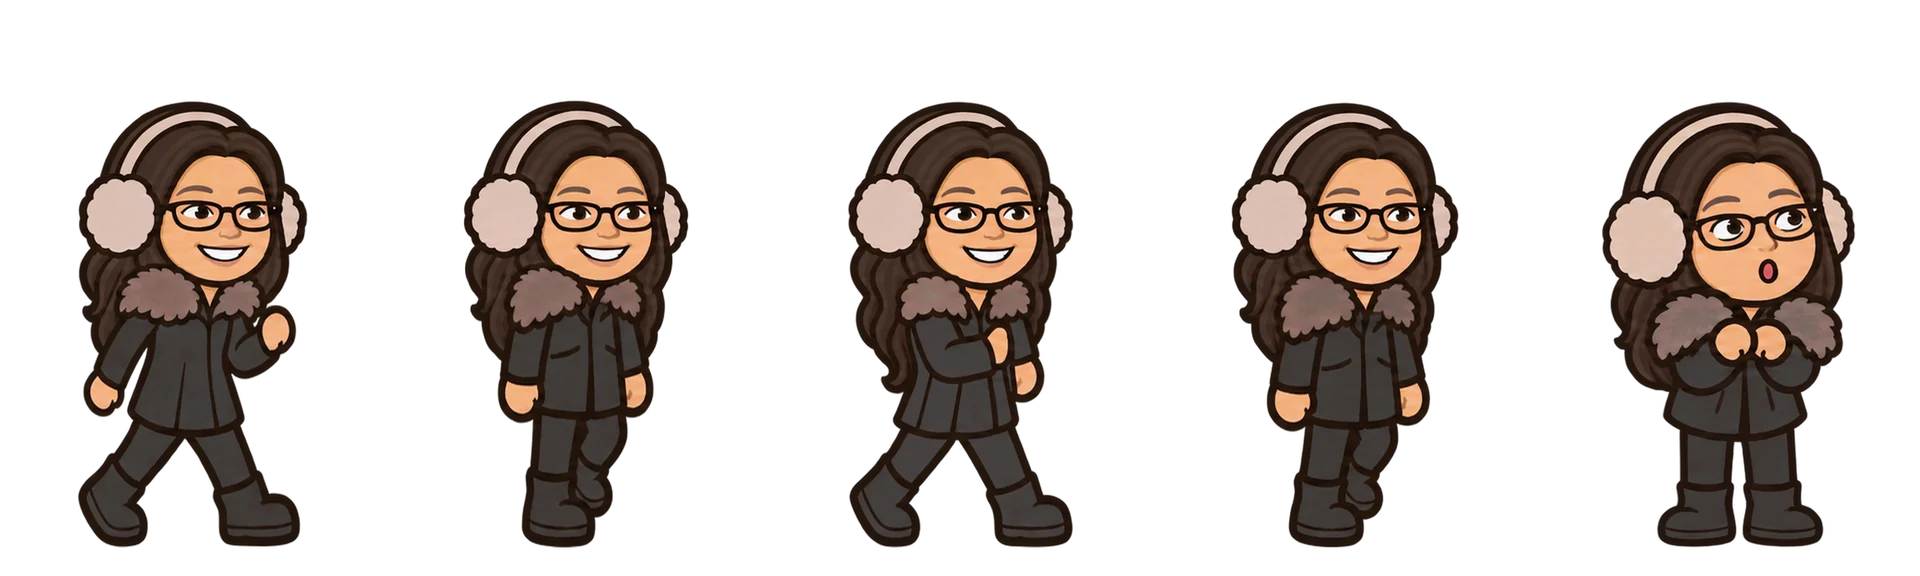
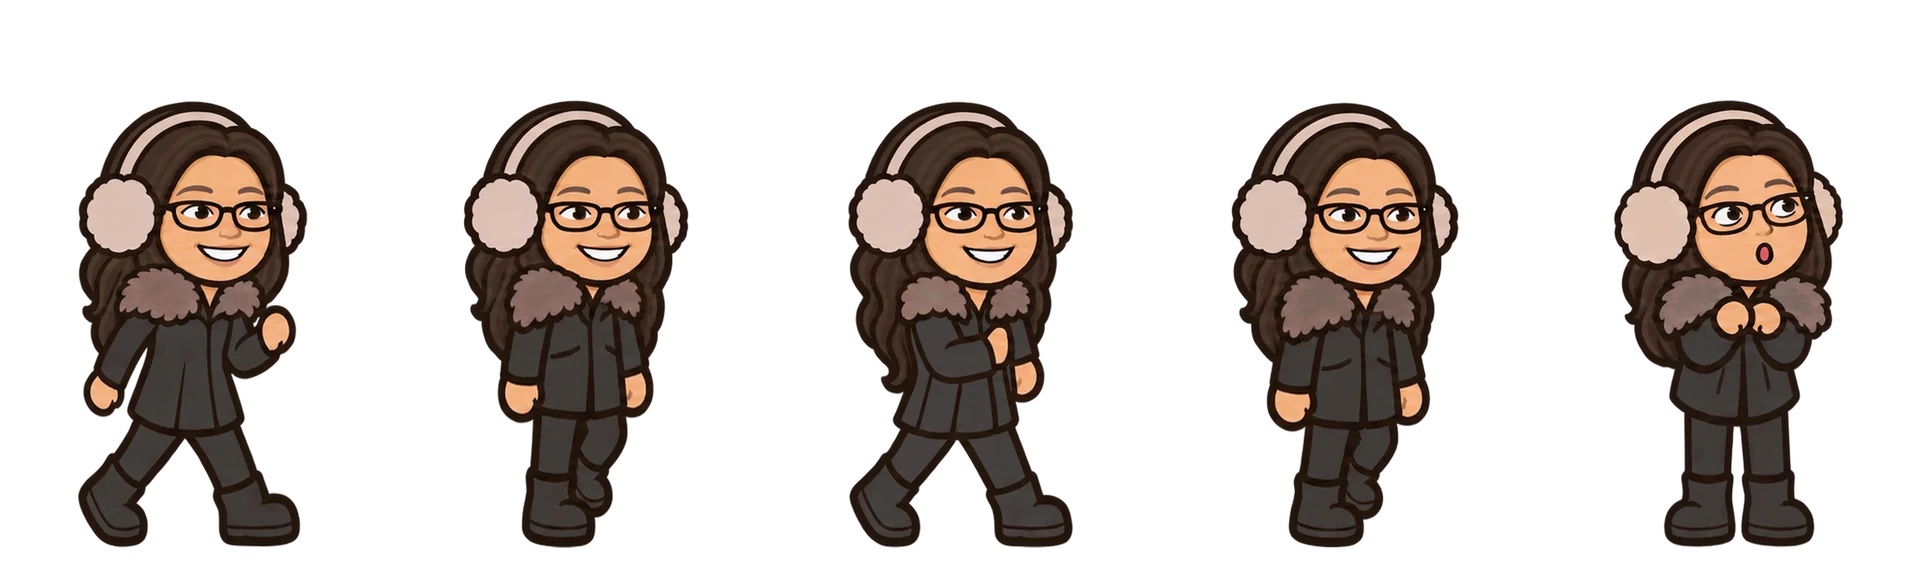
광장 주인장 걷기: mandeuk v5, family-02 v15 (팔이 걸음마다 바뀜)
Claude-Session: https://claude.ai/code/session_013gkWdjqDwwMfs8SrUNHEXQ

Changed region(s): [[0.8125, 0.1562, 0.9688, 0.9375]]

diff --git a/tools/make_plaza_guests.py b/tools/make_plaza_guests.py
@@ -24,7 +24,7 @@ GUESTS = {
     'wolf-sheep-disguise': (490, (0, 0, 0, 0, 0)),  # 양 탈을 쓴 늑대 (주인이 ChatGPT로 직접 그림, 2026-11-16)
     # 주인장 넷 (assets/briefs/PLAZA_OWNER_WALK_ART.md, 2026-11-17) — 키는 생일 춤 시트 키를 코알라와 견줘 잡음.
     # HUMAN: 칸마다 키를 맞추면 큰 머리가 커졌다 작아졌다 흔들려서, 한 배율(①~⑤ 키 가운데값)로 줄이고 가로는 머리 가운데로 맞춤
-    'mandeuk': (577, (0, 0, 0, 0, 0), {**HUMAN, 'v': 2}),  # v4는 팔이 이상해서 v2로(주인, 2026-11-18)
+    'mandeuk': (577, (0, 0, 0, 0, 0), {**HUMAN, 'v': 5}),  # v5 (v4는 팔이 이상했음, 2026-11-18)
     'family-01': (591, (0, 0, 0, 0, 0), HUMAN),
     'family-02': (595, (0, 0, 0, 0, 0), HUMAN),
     'family-03': (546, (0, 0, 0, 0, 0), HUMAN),
